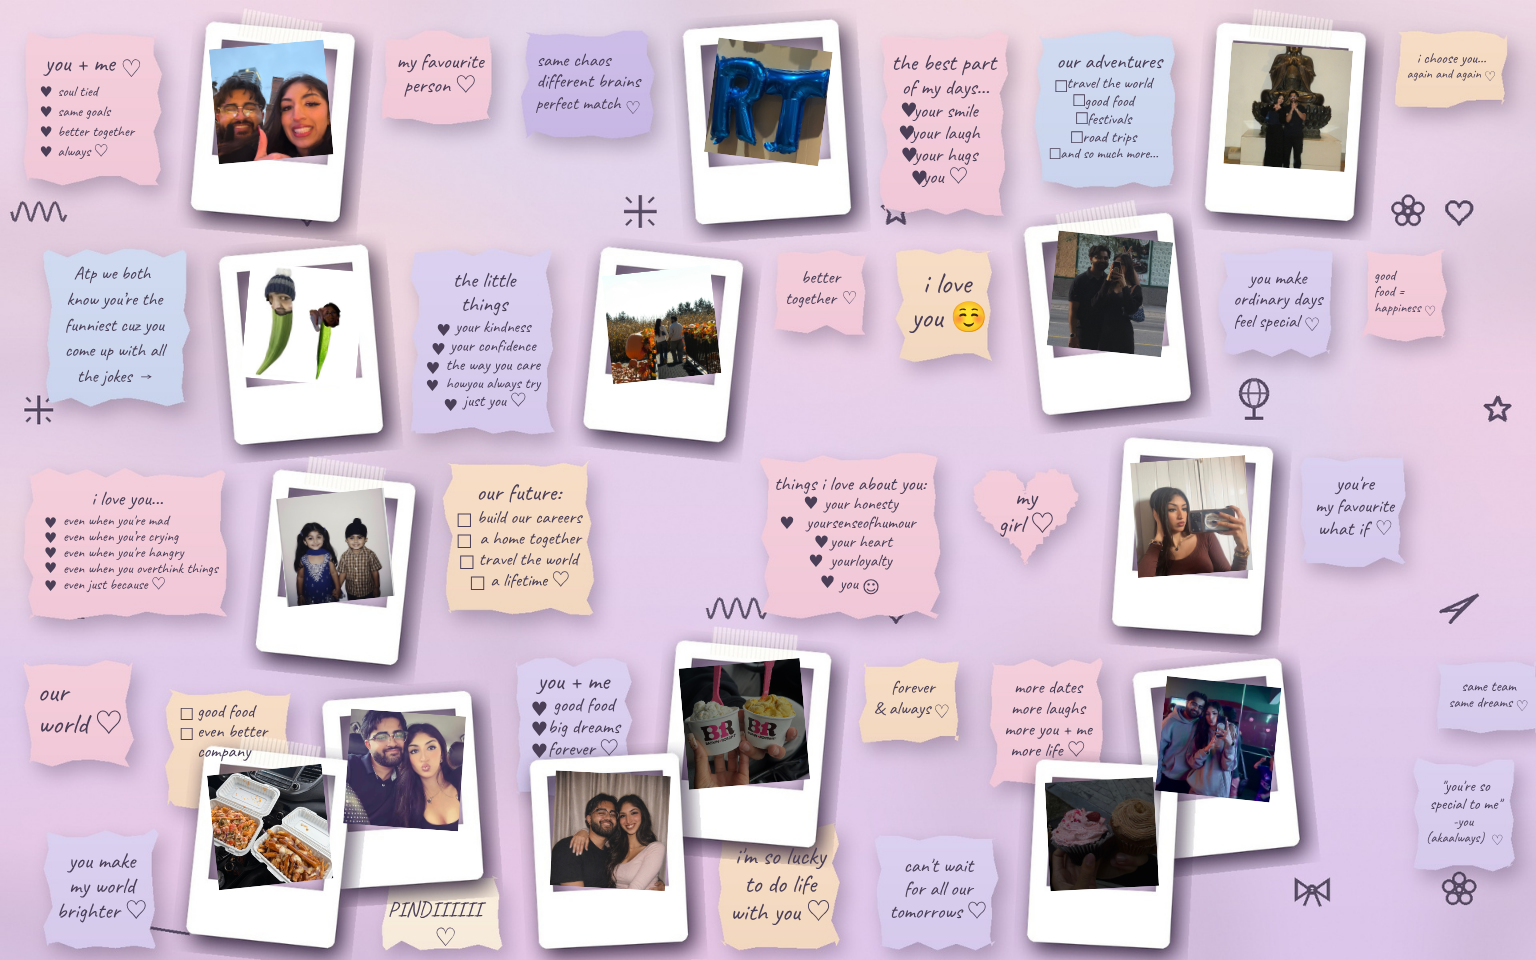
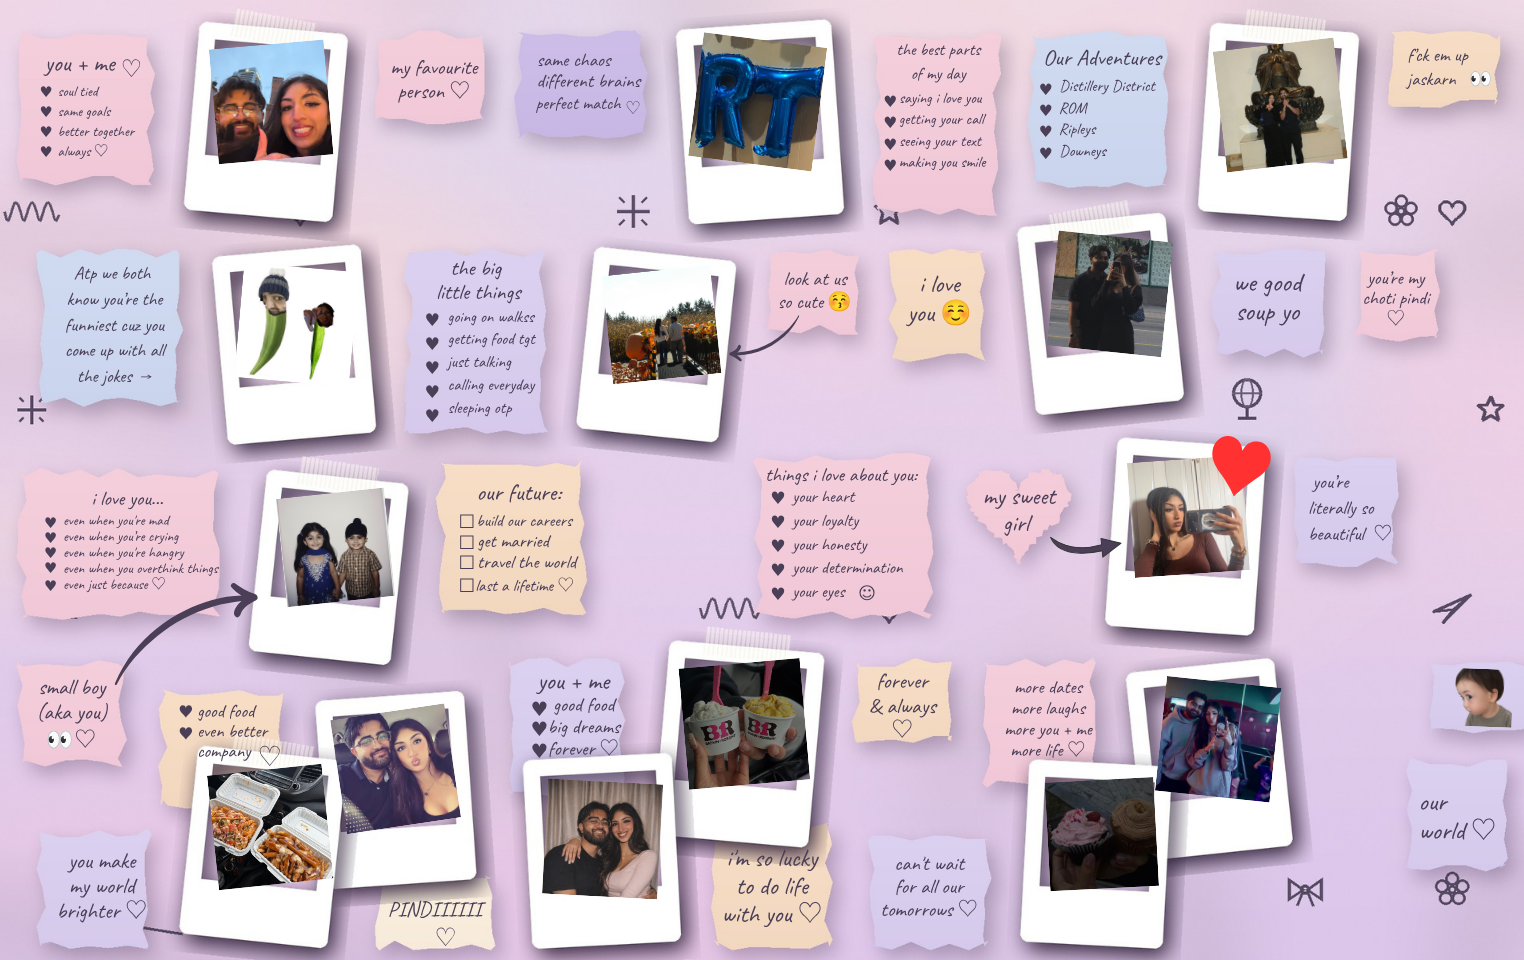
finished image

diff --git a/src/app/components/PuzzleGame.tsx b/src/app/components/PuzzleGame.tsx
@@ -1,5 +1,5 @@
 import { useCallback, useEffect, useMemo, useRef, useState } from 'react';
-import { Check, Heart, RotateCcw, X } from 'lucide-react';
+import { Heart, RotateCcw, X } from 'lucide-react';
 
 const IMAGE_SOURCE = '/assets/puzzle-image.png';
 const GRID_SIZE = 8;
@@ -78,7 +78,7 @@ function PuzzlePieceGraphic({
       viewBox="0 0 100 100"
       preserveAspectRatio="none"
       overflow="visible"
-      className={`absolute overflow-visible ${compact ? 'inset-[14%] h-[72%] w-[72%]' : 'inset-0 h-full w-full'}`}
+      className={`absolute overflow-visible ${compact ? 'inset-[18%] h-[72%] w-[72%]' : 'inset-0 h-full w-full'}`}
       aria-hidden="true"
     >
       <defs>
@@ -162,6 +162,28 @@ export function PuzzleGame({ onClose }: PuzzleGameProps) {
     setBoardPositions(new Map());
     setDragState(null);
   }, []);
+
+  const revealHint = () => {
+    if (remainingPieces.length === 0) {
+      return;
+    }
+
+    const piece = remainingPieces[Math.floor(Math.random() * remainingPieces.length)];
+    setBoardPositions((current) => {
+      const next = new Map(current);
+      const displacedPiece = pieces.find((candidate) => {
+        const position = current.get(candidate.id);
+        return position?.row === piece.row && position.column === piece.column;
+      });
+
+      if (displacedPiece) {
+        next.delete(displacedPiece.id);
+      }
+
+      next.set(piece.id, { row: piece.row, column: piece.column });
+      return next;
+    });
+  };
 
   useEffect(() => {
     const handleEscape = (event: KeyboardEvent) => {
@@ -274,12 +296,19 @@ export function PuzzleGame({ onClose }: PuzzleGameProps) {
         <div className="mb-4 flex shrink-0 items-start justify-between gap-4">
           <div>
             <div className="mb-2 flex items-center gap-2 text-rose-700">
-              <Heart className="h-5 w-5 fill-rose-500 text-rose-500" />
+              <button
+                onClick={revealHint}
+                className="rounded-full text-rose-500 transition-transform hover:scale-110 focus:outline-none focus:ring-2 focus:ring-rose-300"
+                title="A little hint"
+                aria-label="Reveal a random puzzle piece"
+              >
+                <Heart className="h-5 w-5 fill-current" />
+              </button>
               <span className="text-sm font-medium uppercase tracking-[0.2em]">A little secret</span>
             </div>
-            <h2 className="text-3xl text-rose-950 md:text-4xl">Piece together the memory</h2>
+            <h2 className="text-3xl text-rose-950 md:text-4xl">Piece together the memories</h2>
             <p className="mt-2 text-rose-700">
-              Drag pieces onto any grid square. Use the tabs, blanks, and image edges to discover where they belong.
+              Drag pieces onto the board. ENJOYY PINDIII!!!
             </p>
           </div>
           <div className="flex shrink-0 gap-2">
@@ -302,72 +331,83 @@ export function PuzzleGame({ onClose }: PuzzleGameProps) {
           </div>
         </div>
 
-        <div className="grid min-h-0 flex-1 gap-4 lg:grid-cols-[minmax(0,1fr)_minmax(260px,0.4fr)]">
+        <div
+          className={`grid min-h-0 flex-1 gap-4 transition-all duration-700 ease-out ${
+            isComplete ? 'lg:grid-cols-1' : 'lg:grid-cols-[minmax(0,1fr)_minmax(260px,0.4fr)]'
+          }`}
+        >
           <div
             ref={boardRef}
-            className="relative min-h-0 overflow-hidden rounded-2xl border-4 border-dashed border-rose-300 bg-rose-50 shadow-inner"
+            className={`relative aspect-[8/5] min-h-0 w-full self-center overflow-hidden rounded-2xl border-4 border-dashed border-rose-300 bg-rose-50 shadow-inner transition-all duration-700 ease-out ${
+              isComplete ? 'max-h-[calc(100vh-14rem)] scale-[1.01]' : ''
+            }`}
             aria-label="Puzzle board"
           >
-            {pieces.map((piece) => {
-              const position = boardPositions.get(piece.id);
-              if (!position) {
-                return null;
-              }
+            {isComplete ? (
+              <img
+                src={IMAGE_SOURCE}
+                alt="Completed puzzle"
+                className="absolute inset-0 h-full w-full object-contain"
+                onError={() => setImageFailed(true)}
+              />
+            ) : (
+              pieces.map((piece) => {
+                const position = boardPositions.get(piece.id);
+                if (!position) {
+                  return null;
+                }
 
-              return (
-              <div
-                key={piece.id}
-                onPointerDown={(event) => handlePointerDown(event, piece.id, 'board')}
-                className="absolute z-10 h-[12.5%] w-[12.5%] cursor-grab touch-none transition-all active:cursor-grabbing"
-                style={{ left: `${position.column * 12.5}%`, top: `${position.row * 12.5}%` }}
-              >
-                <PuzzlePieceGraphic
-                  piece={piece}
-                  onError={() => setImageFailed(true)}
-                  showBorder={!hasMatchingNeighbor(piece, position, boardPositions, pieces)}
-                />
-              </div>
-              );
-            })}
+                return (
+                  <div
+                    key={piece.id}
+                    onPointerDown={(event) => handlePointerDown(event, piece.id, 'board')}
+                    className="absolute z-10 h-[12.5%] w-[12.5%] cursor-grab touch-none transition-all active:cursor-grabbing"
+                    style={{ left: `${position.column * 12.5}%`, top: `${position.row * 12.5}%` }}
+                  >
+                    <PuzzlePieceGraphic
+                      piece={piece}
+                      onError={() => setImageFailed(true)}
+                      showBorder={!hasMatchingNeighbor(piece, position, boardPositions, pieces)}
+                    />
+                  </div>
+                );
+              })
+            )}
             {imageFailed && (
               <div className="absolute inset-0 flex items-center justify-center bg-rose-50/95 p-6 text-center text-rose-800">
                 Add your image as <code className="mx-1 rounded bg-rose-100 px-1">public/assets/puzzle-image.png</code> to start playing.
               </div>
             )}
-            {isComplete && !imageFailed && (
-              <div className="absolute inset-0 flex flex-col items-center justify-center bg-rose-950/65 text-center text-white">
-                <Check className="mb-2 h-12 w-12 rounded-full bg-emerald-500 p-2" />
-                <p className="text-2xl">You put it all together!</p>
-                <button onClick={restart} className="mt-4 rounded-xl bg-white px-4 py-2 text-rose-800 hover:bg-rose-50">
-                  Play again
-                </button>
-              </div>
-            )}
           </div>
 
-          <div ref={trayRef} className="flex min-h-0 flex-col overflow-hidden rounded-2xl border border-rose-200 bg-rose-50/80 p-3">
-            <div className="mb-3 flex items-center justify-between text-sm text-rose-700">
-              <span>Pieces to place</span>
-              <span>{remainingPieces.length} / {PIECE_COUNT}</span>
-            </div>
-            <div className="min-h-0 flex-1 overflow-y-auto overscroll-contain px-2 py-2">
-              <div className="grid grid-cols-3 gap-3">
-              {remainingPieces.map((piece) => (
-                <button
-                  key={piece.id}
-                  onPointerDown={(event) => handlePointerDown(event, piece.id, 'tray')}
-                  className="relative aspect-square cursor-grab touch-none overflow-visible bg-transparent active:cursor-grabbing"
-                  aria-label={`Puzzle piece ${piece.id + 1}`}
-                >
-                  <PuzzlePieceGraphic
-                    piece={piece}
-                    onError={() => setImageFailed(true)}
-                  />
-                </button>
-              ))}
+          {!isComplete && (
+            <div
+              ref={trayRef}
+              className="flex min-h-0 flex-col overflow-hidden rounded-2xl border border-rose-200 bg-rose-50/80 p-3 opacity-100 transition-all duration-700 ease-out"
+            >
+              <div className="mb-3 flex items-center justify-between text-sm text-rose-700">
+                <span>Pieces to place</span>
+                <span>{remainingPieces.length} / {PIECE_COUNT}</span>
+              </div>
+              <div className="min-h-0 flex-1 overflow-y-auto overscroll-contain p-4">
+                <div className="grid grid-cols-3 gap-4">
+                  {remainingPieces.map((piece) => (
+                    <button
+                      key={piece.id}
+                      onPointerDown={(event) => handlePointerDown(event, piece.id, 'tray')}
+                      className="relative aspect-square cursor-grab touch-none overflow-visible bg-transparent active:cursor-grabbing"
+                      aria-label={`Puzzle piece ${piece.id + 1}`}
+                    >
+                      <PuzzlePieceGraphic
+                        piece={piece}
+                        onError={() => setImageFailed(true)}
+                      />
+                    </button>
+                  ))}
+                </div>
               </div>
             </div>
-          </div>
+          )}
         </div>
       </div>
 
